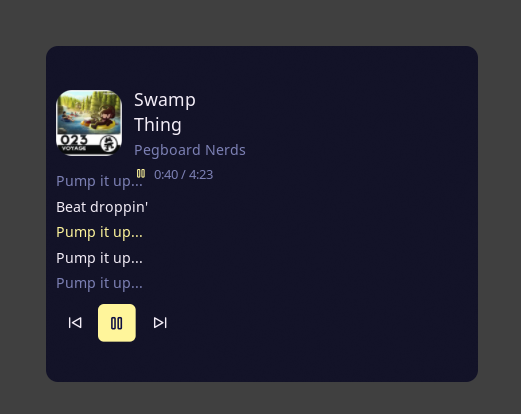
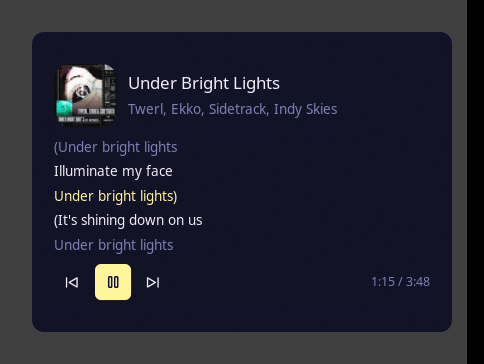
tweak(desktop): drop the play/pause glyph from the header, move the time to the transport row
The glyph next to the time repeated the play/pause button two lines below it, and the
time read better opposite those buttons than under the artist.

The header is still held open by the 56px cover, and the transport row by the buttons,
so the fixed-slot lyric band below is untouched — no geometry change, only what sits in
the two bands. The time is pushed to the right by a spacer in a row that now carries the
same width budget as the rest of the content; the spacer has nothing to fill otherwise.

Changed region(s): [[0.062, 0.0, 1.0, 1.0], [0.124, 0.7253, 0.3409, 0.8462]]

diff --git a/media-lyrics/CHANGELOG.md b/media-lyrics/CHANGELOG.md
@@ -39,6 +39,12 @@ chip, tooltips, and the fixes that came out of running the widget live.
   through the Noctalia 5.2 capability work with diagrams, measurements and
   screenshots, including the dead ends.
 
+- **The desktop widget's header is text only.** The play/pause glyph that sat beside
+  the track time repeated the transport button two lines below it, and the time reads
+  better opposite those buttons: it now ends the transport row, pushed to the right.
+  Both bands are held at the same height either way — the header by the 56 px cover,
+  the transport row by the buttons — so the lyric band below is unchanged.
+
 ### Fixed
 
 - **Every `r`, `n` and `t` disappeared from Latin lyrics.** The widget's
